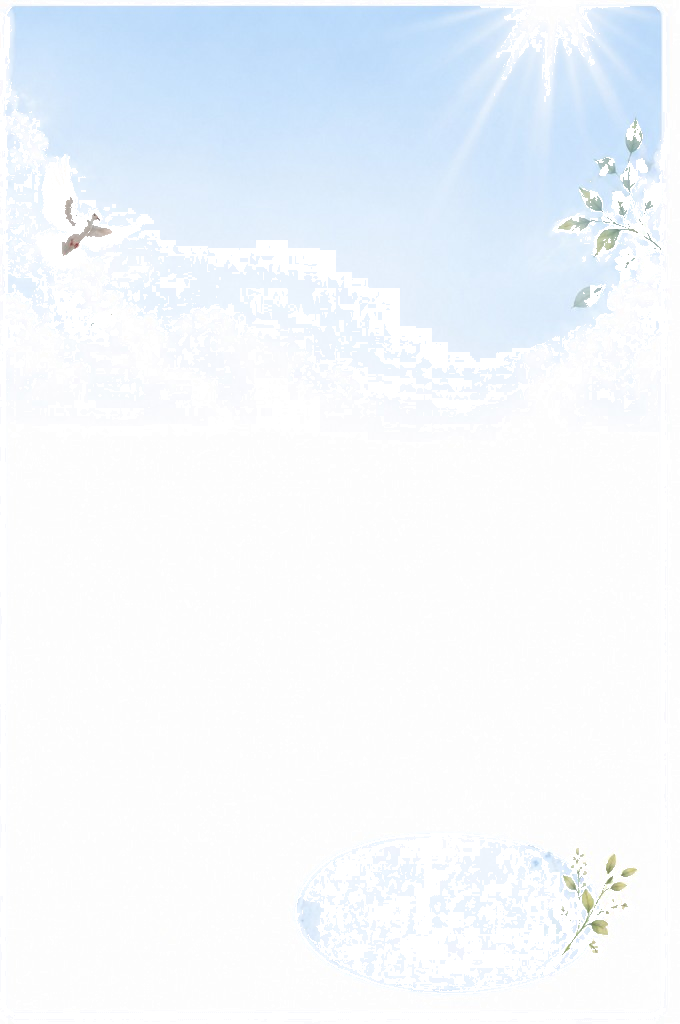
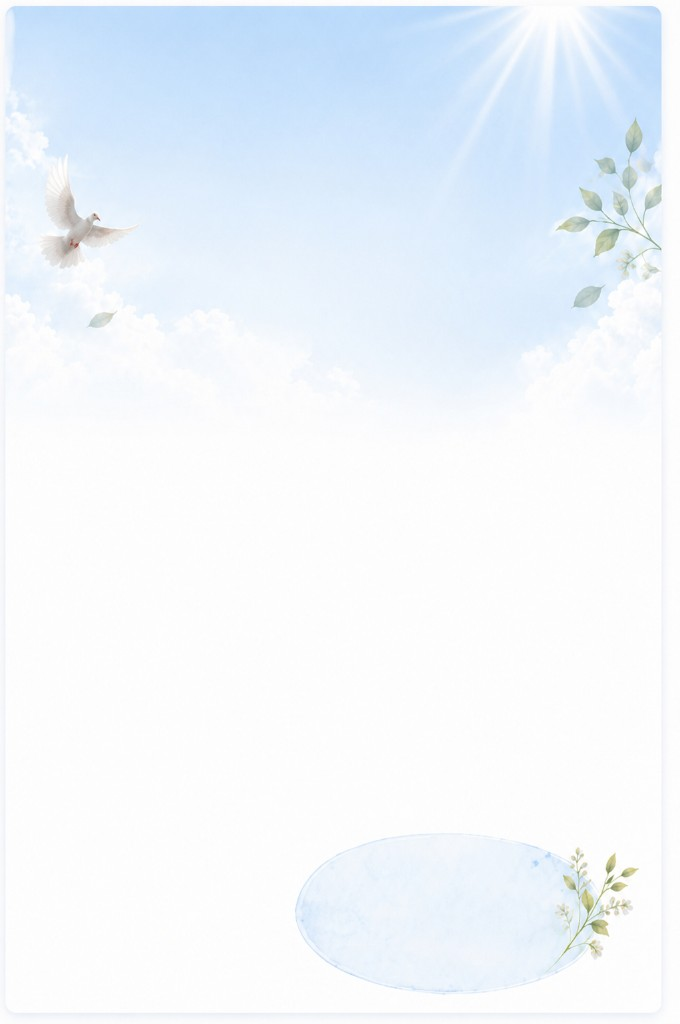
Restore corrupted page background images and fix background scaling.
Revert shadow-removal artifacts on about and worship hero assets and prevent upscaling with cover/contain sizing.

diff --git a/src/components/worship/WorshipHero.css b/src/components/worship/WorshipHero.css
@@ -10,7 +10,7 @@
 
 .worship-hero {
   --worship-hero-bg: none;
-  --worship-hero-ratio: 1024 / 322;
+  --worship-hero-ratio: 1024 / 481;
 
   position: relative;
   display: flex;
@@ -22,7 +22,7 @@
   width: calc(100% + 5rem);
   max-width: 100vw;
   background-image: var(--worship-hero-bg);
-  background-size: 100% 100%;
+  background-size: cover;
   background-position: center;
   background-repeat: no-repeat;
   overflow: hidden;

diff --git a/src/components/common/MobileBannerExpand.css b/src/components/common/MobileBannerExpand.css
@@ -390,8 +390,8 @@
   }
 
   .mobile-banner-expand--title-only.worship-hero {
-    aspect-ratio: 1024 / 322;
-    background-size: 100% 100% !important;
+    aspect-ratio: 1024 / 481;
+    background-size: cover !important;
     background-position: center !important;
   }
 

diff --git a/src/components/about/AboutBackgroundExpand.css b/src/components/about/AboutBackgroundExpand.css
@@ -31,7 +31,7 @@
     background-image: var(--about-intro-bg);
     background-repeat: no-repeat;
     background-position: top center;
-    background-size: contain;
+    background-size: min(680px, 100%) auto;
     opacity: 0.35;
     pointer-events: none;
   }

diff --git a/src/pages/About.css b/src/pages/About.css
@@ -28,7 +28,7 @@
   background-image: var(--about-intro-bg);
   background-repeat: no-repeat;
   background-position: top center;
-  background-size: 100% auto;
+  background-size: min(680px, 100%) auto;
   pointer-events: none;
 }
 
